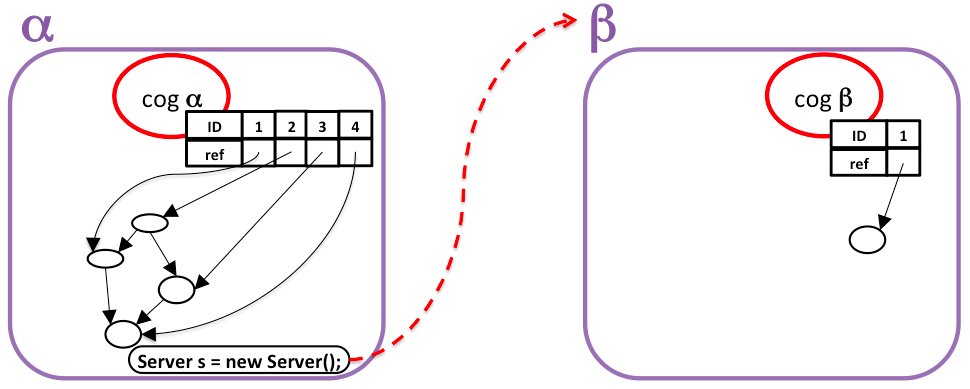
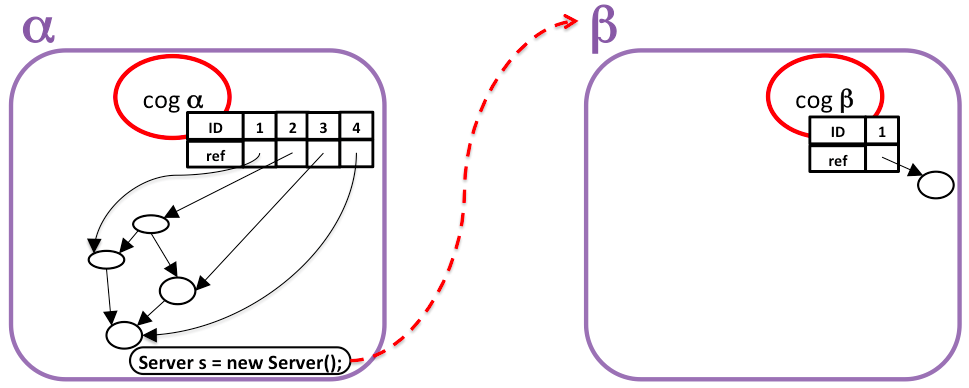
Added a new picture for the translation of an ABS asynchronous method call in ProActive.

diff --git a/2015-active-objects-survey.tex b/2015-active-objects-survey.tex
@@ -1462,9 +1462,14 @@ This configuration of objects is illustrated on Figure~\ref{fig:ABS-to-PA-new}, 
 In the ProActive backend for ABS, the principle to translate an asynchronous ABS call is 
 thus to run a generic asynchronous method call on the COG of the targeted object and then 
 let the generic method of the COG retrieve the targeted object, thanks to a unique 
-identifier, and run the desired method on it by reflection.
+identifier, and run the desired method on it by reflection. Figure~\ref{fig:ABS-to-PA-call}
 %% RM
-
+\begin{figure}
+	\centering
+	\includegraphics[scale=0.3]{pictures/ABS-to-PA-call.png}
+	\caption{Translation of an ABS asynchronous method call in ProActive}
+	\label{fig:ABS-to-PA-call}
+\end{figure}
 In ProActive, passive objects are not shared between active objects. Therefore, when a passive object is a parameter of a remote method call, it is copied, whereas in ABS parameters of method call are manipulated by reference.
 So when in the translation we run a generic method call on a COG, all the parameters are 
 copied. For the identifier of the targeted object and the name of the method to run, this 
